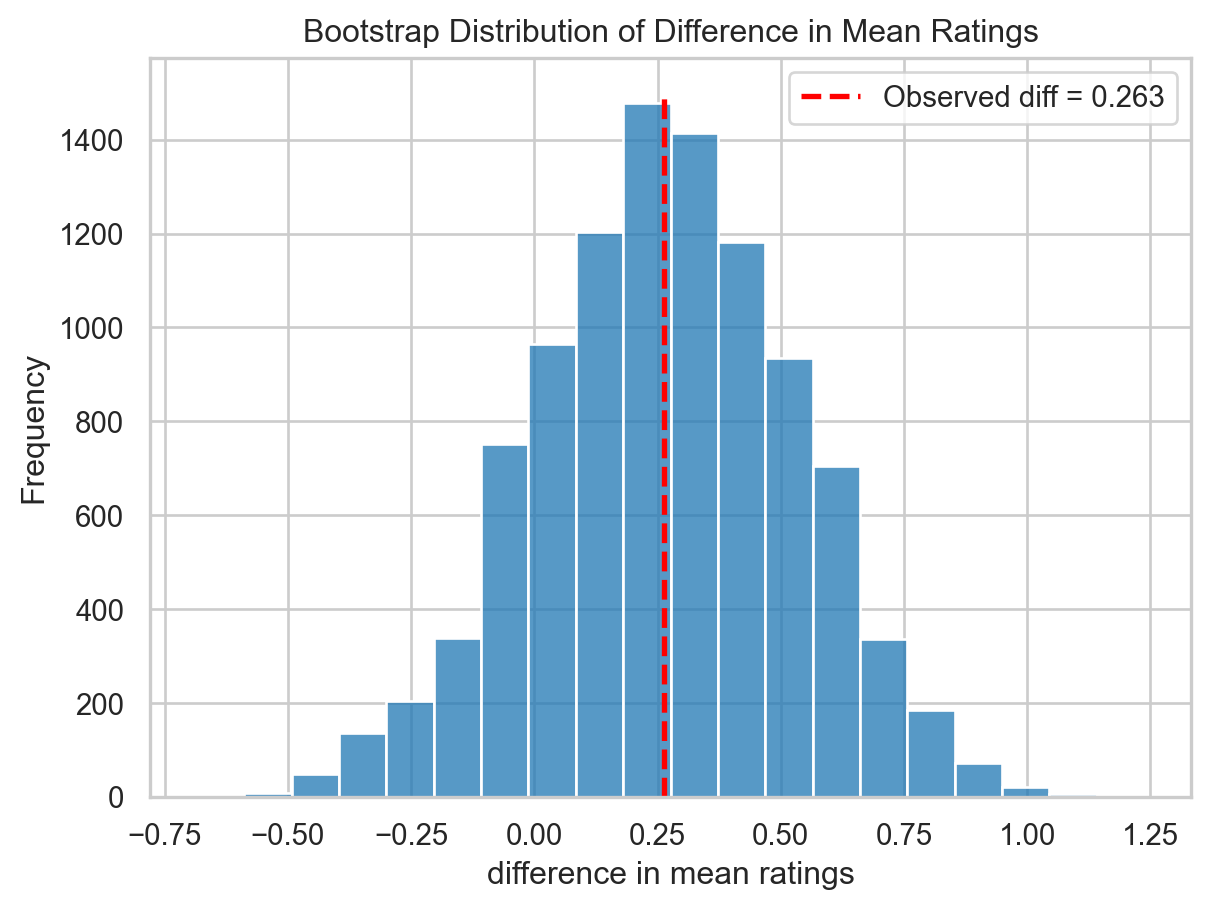
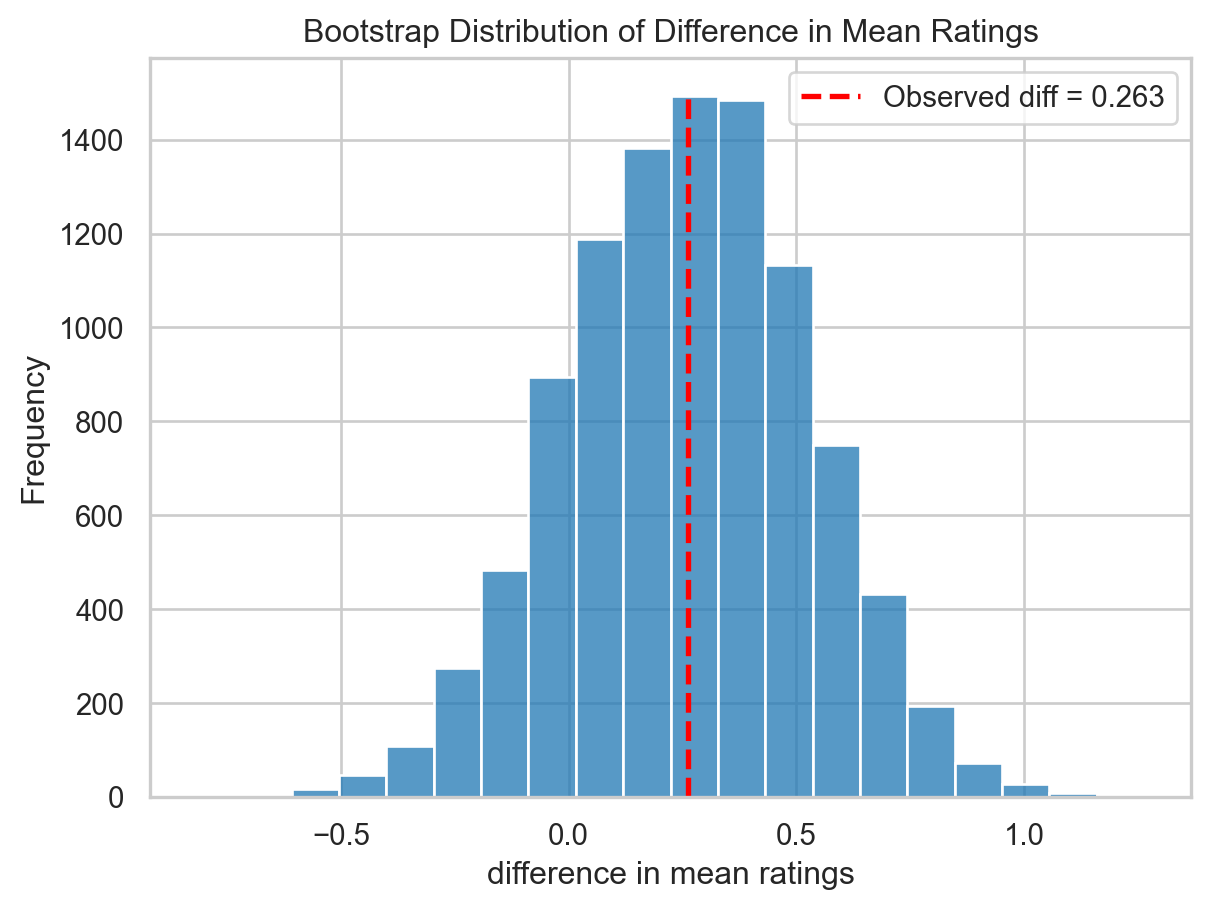
fix: remove duplicate EDA plot and update cell IDs in ratings inference post

diff --git a/docs/posts/ratings_inference/index.html b/docs/posts/ratings_inference/index.html
@@ -241,7 +241,7 @@ window.Quarto = {
 <section id="data" class="level2">
 <h2 class="anchored" data-anchor-id="data">Data</h2>
 <p>Electronics product rating dataset is used in the study. The dataset contains user ratings for various electronic products, with each rating on a scale from 1-5 (converted to 0-4). For this article a subset of <code>Headphones</code> in the data, from brands <em>Philips and Apple</em> is used. The study focuses on 1 particular product from each of these brands to make a comparative assessment.</p>
-<div id="65651359" class="cell" data-execution_count="2">
+<div id="b38947f9" class="cell" data-execution_count="2">
 <div class="cell-output cell-output-display">
 <div>
 
@@ -327,25 +327,18 @@ window.Quarto = {
 <h3 class="anchored" data-anchor-id="eda">EDA</h3>
 <p>Average ratings for brands is close and it appears that there is some degree of variability in the ratings. This variability can hide true differences between brands.</p>
 <p>There is visible overlap of standard errors and so at this point it is hard to say which brand is more favorably rated given the variability.</p>
-<div id="05f2be1b" class="cell" data-execution_count="3">
-<div class="cell-output cell-output-display" data-execution_count="77">
+<div id="925827c7" class="cell" data-execution_count="3">
+<div class="cell-output cell-output-display">
 <div>
 <figure class="figure">
 <p><img src="index_files/figure-html/cell-4-output-1.png" width="690" height="381" class="figure-img"></p>
 </figure>
 </div>
 </div>
-<div class="cell-output cell-output-display">
-<div>
-<figure class="figure">
-<p><img src="index_files/figure-html/cell-4-output-2.png" width="690" height="381" class="figure-img"></p>
-</figure>
-</div>
-</div>
 </div>
 <p>The distribution of ratings for these brands has distinct patterns, while users seem to have more even views on <em>Apple</em> (commonly rate 0 to 3), Philips has a more favourable set of ratings with fewer 0 Stars proportionally.</p>
-<div id="98ebc656" class="cell" data-execution_count="4">
-<div class="cell-output cell-output-display" data-execution_count="78">
+<div id="2a4e4935" class="cell" data-execution_count="4">
+<div class="cell-output cell-output-display" data-execution_count="168">
 <div>
 <figure class="figure">
 <p><img src="index_files/figure-html/cell-5-output-1.png" width="707" height="445" class="figure-img"></p>
@@ -360,7 +353,7 @@ window.Quarto = {
 <section id="baseline-approach" class="level3">
 <h3 class="anchored" data-anchor-id="baseline-approach">Baseline approach</h3>
 <p>To establish a sensible baseline for comparing ratings, a simulation can be set up such that sampling ratings for each brand and then comparing differences in their mean gives us an intuitive and meaningful picture about what to expect in data. <br></p>
-<div id="dcfbea90" class="cell" data-execution_count="5">
+<div id="7046da5e" class="cell" data-execution_count="5">
 <div class="cell-output cell-output-display">
 <div>
 <figure class="figure">
@@ -372,7 +365,7 @@ window.Quarto = {
 <pre><code>
 Bootstrap Test Results:
   Observed difference (Philips - Apple): 0.2632
-  Two-tailed p-value: 0.5434
+  Two-tailed p-value: 0.5345
   Significant at α=0.05: No
 
 Probability Ratio:
@@ -391,8 +384,8 @@ Probability Ratio:
 <p>To model a single user’s preference needs a hierarchical approach, where individual user preferences are drawn from a common distribution, capturing the variability across users. The end result is not just a single value of <em>p</em> for a user but rather a range of possible values with different likelihood based on how the user has rated the product.</p>
 <p>For e.g.&nbsp;if a user who has rated the product <em>3</em> star is considered, then the likelihood of their preference <em>p</em> would be greater (around 0.65 value), but it may still be possible that their preference is some other value with a lower likelihood.</p>
 <p><em>For a refresher on likelihood theory refer <a href="https://prteek.github.io/regression_room/posts/likelihood_primer/">likelihood primer</a></em></p>
-<div id="6a130de9" class="cell" data-execution_count="6">
-<div class="cell-output cell-output-display" data-execution_count="80">
+<div id="7661caa2" class="cell" data-execution_count="6">
+<div class="cell-output cell-output-display" data-execution_count="170">
 <div>
 <figure class="figure">
 <p><img src="index_files/figure-html/cell-7-output-1.png" width="599" height="445" class="figure-img"></p>
@@ -422,7 +415,7 @@ Probability Ratio:
 </section>
 <section id="maximum-likelihood-estimation" class="level4">
 <h4 class="anchored" data-anchor-id="maximum-likelihood-estimation">Maximum Likelihood Estimation</h4>
-<div id="97fc665b" class="cell" data-cache="true" data-execution_count="9">
+<div id="a146b0a6" class="cell" data-cache="true" data-execution_count="9">
 <div class="cell-output cell-output-stdout">
 <pre><code>Beta-Binomial MLE:
   α = 0.668900
@@ -441,7 +434,7 @@ with standard deviation ±33.5%</code></pre>
 <section id="goodness-of-fit" class="level4">
 <h4 class="anchored" data-anchor-id="goodness-of-fit">Goodness of fit</h4>
 <p>Goodness of fit can be assessed by comparing counts from the Beta-binomial model using MLE estimates, to actual counts at different rating values. The counts are close and model is satisfactory for this data.</p>
-<div id="1b69bae3" class="cell" data-execution_count="10">
+<div id="15cfd614" class="cell" data-execution_count="10">
 <div class="cell-output cell-output-stdout">
 <pre><code>
 Model check:
@@ -457,14 +450,14 @@ Model check:
 <section id="profile-likelihood-of-p" class="level4">
 <h4 class="anchored" data-anchor-id="profile-likelihood-of-p">Profile likelihood of <em>p</em></h4>
 <p>For Beta-Binomial, we fix E[p] and optimize α.</p>
-<div id="d55bacce" class="cell" data-cache="true" data-execution_count="11">
+<div id="7b13b6ac" class="cell" data-cache="true" data-execution_count="11">
 <div class="cell-output cell-output-stdout">
 <pre><code>Profile likelihood MLE: p = 0.657895
 Joint optimization MLE: p = 0.653064
 Difference: 0.004831</code></pre>
 </div>
 </div>
-<div id="6c1dc887" class="cell" data-execution_count="12">
+<div id="67d67929" class="cell" data-execution_count="12">
 <div class="cell-output cell-output-display">
 <div>
 <figure class="figure">
@@ -511,7 +504,7 @@ Difference: 0.004831</code></pre>
 <section id="profile-likelihood-for-comparing-brands" class="level4">
 <h4 class="anchored" data-anchor-id="profile-likelihood-for-comparing-brands">Profile Likelihood for Comparing Brands</h4>
 <p>Following the same structure as the single-brand analysis, we compute the profile likelihood of <span class="math inline">\(\theta\)</span> by fixing it and optimizing over the nuisance parameters.</p>
-<div id="47e80504" class="cell" data-execution_count="14">
+<div id="ee60cb3a" class="cell" data-execution_count="14">
 <div class="cell-output cell-output-stdout">
 <pre><code>Computing profile likelihood...
   5/20 complete
@@ -521,7 +514,7 @@ Difference: 0.004831</code></pre>
 MLE: θ = 0.315789</code></pre>
 </div>
 </div>
-<div id="f8ae9ddb" class="cell" data-execution_count="15">
+<div id="b0e8aa21" class="cell" data-execution_count="15">
 <div class="cell-output cell-output-stdout">
 <pre><code>
 95% Likelihood-based Confidence Interval for θ:
@@ -529,7 +522,7 @@ MLE: θ = 0.315789</code></pre>
   Excludes zero: False</code></pre>
 </div>
 </div>
-<div id="b15d7eed" class="cell" data-execution_count="16">
+<div id="9ebb6b4f" class="cell" data-execution_count="16">
 <div class="cell-output cell-output-display">
 <div>
 <figure class="figure">
@@ -538,7 +531,7 @@ MLE: θ = 0.315789</code></pre>
 </div>
 </div>
 </div>
-<div id="8aad90f0" class="cell" data-execution_count="17">
+<div id="27742aba" class="cell" data-execution_count="17">
 <div class="cell-output cell-output-stdout">
 <pre><code>
 Profile Likelihood Summary:
@@ -558,7 +551,7 @@ Profile Likelihood Summary:
 </section>
 <section id="cross-method-consistency" class="level3">
 <h3 class="anchored" data-anchor-id="cross-method-consistency">Cross-method Consistency</h3>
-<div id="3312e510" class="cell" data-execution_count="18">
+<div id="3897b5ff" class="cell" data-execution_count="18">
 <div class="cell-output cell-output-stdout">
 <pre><code>Consistency Check: Data vs. Profile Likelihood
 

diff --git a/docs/index.html b/docs/index.html
@@ -210,7 +210,7 @@ window.Quarto = {
     </div>
 </div>
 <div class="list quarto-listing-default">
-<div class="quarto-post image-right" data-index="0" data-categories="aW5mZXJlbmNlJTJDbGlrZWxpaG9vZCUyQ2Rpc3BlcnNpb24=" data-listing-date-sort="1776207600000" data-listing-file-modified-sort="1780997907235" data-listing-date-modified-sort="NaN" data-listing-reading-time-sort="18" data-listing-word-count-sort="3506">
+<div class="quarto-post image-right" data-index="0" data-categories="aW5mZXJlbmNlJTJDbGlrZWxpaG9vZCUyQ2Rpc3BlcnNpb24=" data-listing-date-sort="1776207600000" data-listing-file-modified-sort="1780998187653" data-listing-date-modified-sort="NaN" data-listing-reading-time-sort="18" data-listing-word-count-sort="3510">
 <div class="thumbnail"><a href="./posts/ratings_inference/index.html" class="no-external">
 
 <img loading="lazy" src="./posts/ratings_inference/ratings.png" class="thumbnail-image">
